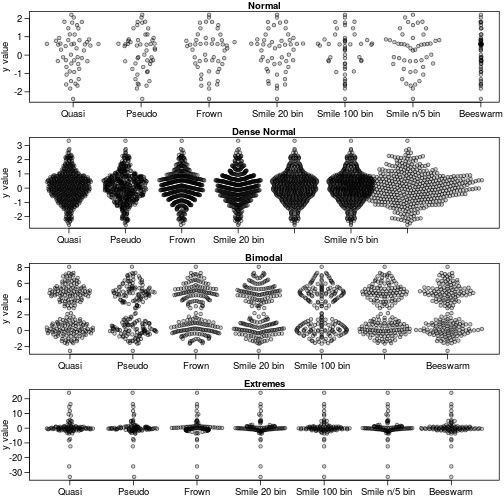
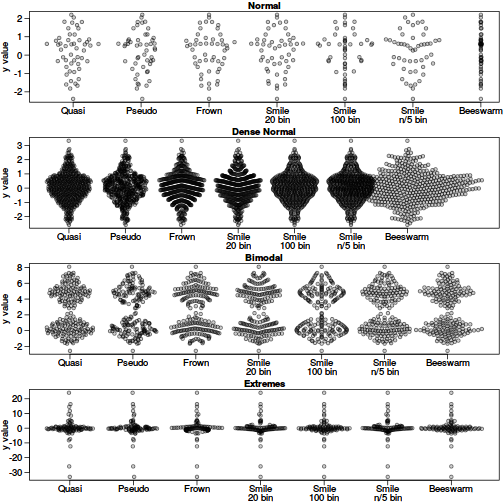
Better axis labelling

diff --git a/README.md b/README.md
@@ -31,14 +31,14 @@ par(mfrow=c(4,1), mar=c(2.5,3.1, 1.2, 0.5),mgp=c(2.1,.75,0),cex.axis=1.2,cex.lab
 sapply(names(dat),function(label) {
 	y<-dat[[label]]
 	offsets <- list(
-		offsetX(y),  # Default
-		offsetX(y, adjust=2),    # More smoothing
-		offsetX(y, adjust=0.1),  # Tighter fit
-		offsetX(y, width=0.1)    # Less wide
+		'Default'=offsetX(y),  # Default
+		'Adjust=2'=offsetX(y, adjust=2),    # More smoothing
+		'Adjust=.1'=offsetX(y, adjust=0.1),  # Tighter fit
+		'Width=10%'=offsetX(y, width=0.1)    # Less wide
 	)  
 	ids <- rep(1:length(offsets), each=length(y))
 	plot(unlist(offsets) + ids, rep(y, length(offsets)), ylab='y value', xlab='', xaxt='n', pch=21,col='#00000099',bg='#00000033',las=1,main=label)
-	axis(1, 1:length(offsets), c("Default", "Adjust=2", "Adjust=0.1", "Width=10%"))
+	axis(1, 1:length(offsets), names(offsets))
 })
 ```
 
@@ -53,18 +53,19 @@ par(mfrow=c(4,1), mar=c(2.5,3.1, 1.2, 0.5),mgp=c(2.1,.75,0),cex.axis=1.2,cex.lab
 sapply(names(dat),function(label) {
 	y<-dat[[label]]
 	offsets <- list(
-		offsetX(y),  # Default
-		offsetX(y, method='pseudorandom',nbins=100),
-		offsetX(y, method='frowney',nbins=20),
-		offsetX(y, method='smiley',nbins=20),
-		offsetX(y, method='smiley',nbins=100),
-		offsetX(y, method='smiley',nbins=round(length(y)/5)),
-		swarmx(rep(0,length(y)),y)$x
+		'Quasi'=offsetX(y),  # Default
+		'Pseudo'=offsetX(y, method='pseudorandom',nbins=100),
+		'Frown'=offsetX(y, method='frowney',nbins=20),
+		'Smile\n20 bin'=offsetX(y, method='smiley',nbins=20),
+		'Smile\n100 bin'=offsetX(y, method='smiley',nbins=100),
+		'Smile\nn/5 bin'=offsetX(y, method='smiley',nbins=round(length(y)/5)),
+		'Beeswarm'=swarmx(rep(0,length(y)),y)$x
 	)
 	ids <- rep(1:length(offsets), each=length(y))
 
 	plot(unlist(offsets) + ids, rep(y, length(offsets)), ylab='y value', xlab='', xaxt='n', pch=21,col='#00000099',bg='#00000033',las=1,main=label)
-	axis(1, 1:length(offsets), c("Quasi", "Pseudo", "Frown", "Smile 20 bin","Smile 100 bin","Smile n/5 bin","Beeswarm"))
+	par(lheight=.8)
+	axis(1, 1:length(offsets), names(offsets),padj=1,mgp=c(0,-.3,0),tcl=-.5)
 })
 ```
 
